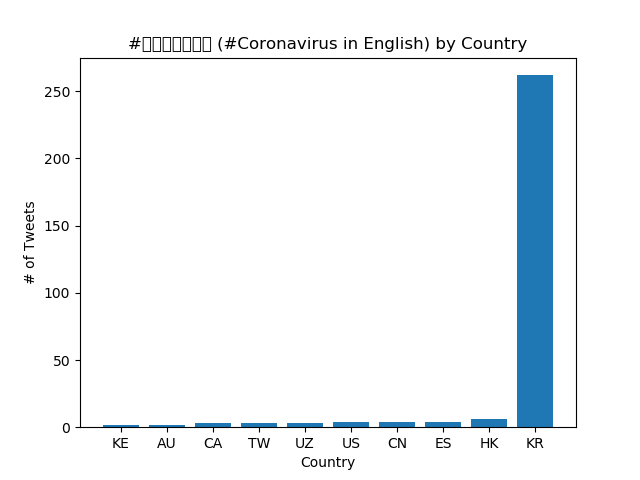
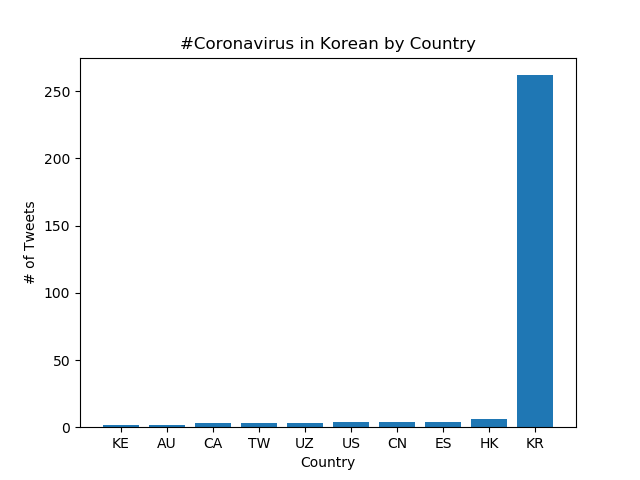
hw

Changed region(s): [[0.1875, 0.0625, 0.8125, 0.125]]

diff --git a/README.md b/README.md
@@ -19,7 +19,7 @@ I have included 4 graphs to show my findings from the project. The first image s
 
 <img src=figure1.png width=400px/>
 
-**Figure 2:# 코로나바이러스(Coronavirus in Korean) by Language**
+**Figure 2:# 코로나바이러스 by Language**
 
 <img src=figure2.png width=400px/>
 
@@ -28,7 +28,7 @@ I have included 4 graphs to show my findings from the project. The first image s
 
 <img src=figure3.png width=400px/>
 
-**Figure 4:# 코로나바이러스(Coronavirus in Korean) by Country**
+**Figure 4:# 코로나바이러스 by Country**
 
 <img src=figure4.png width=400px/>
 
